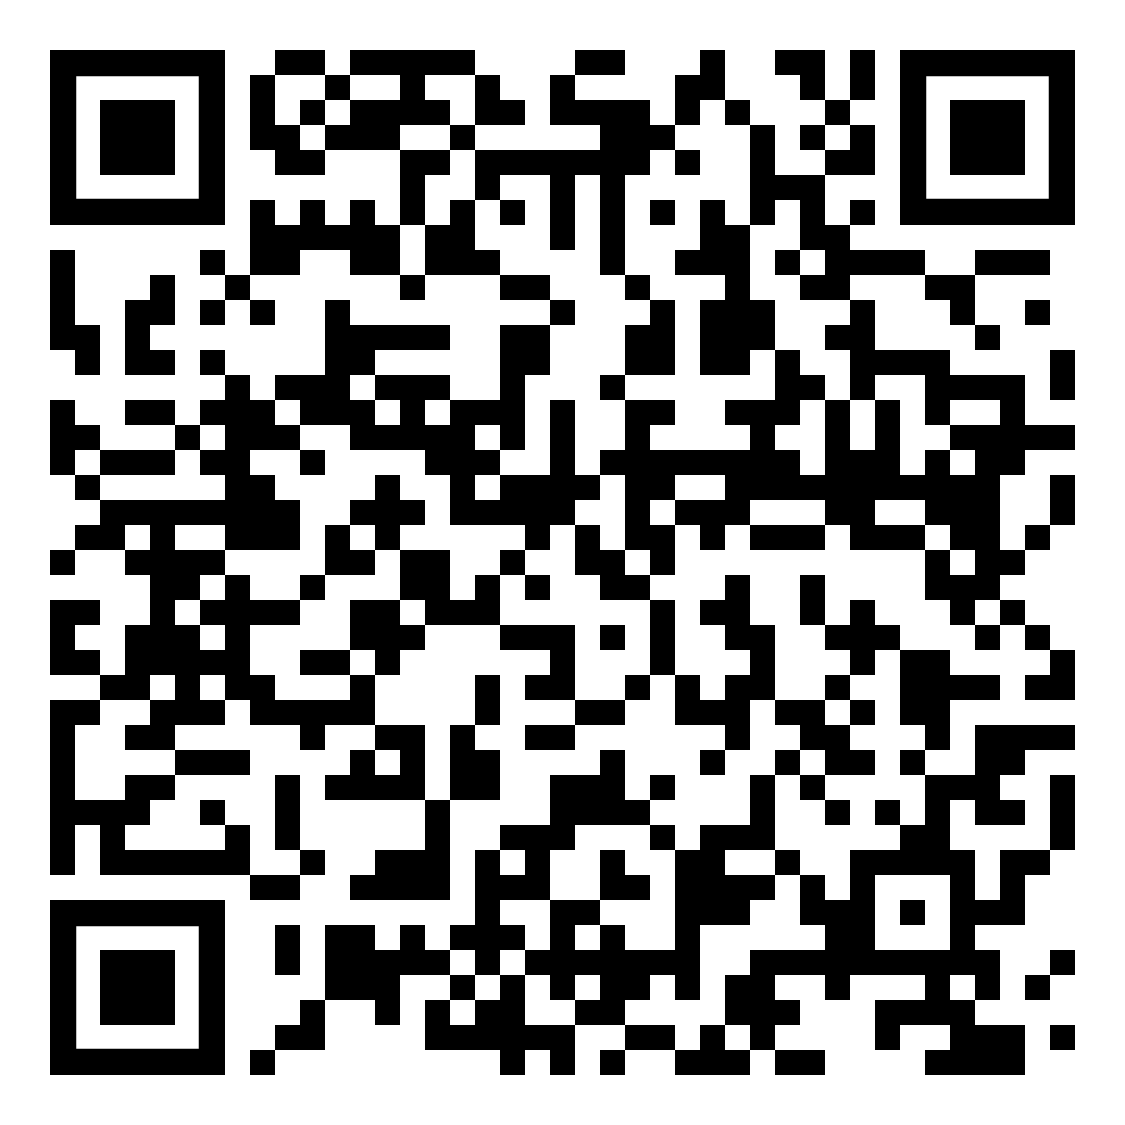
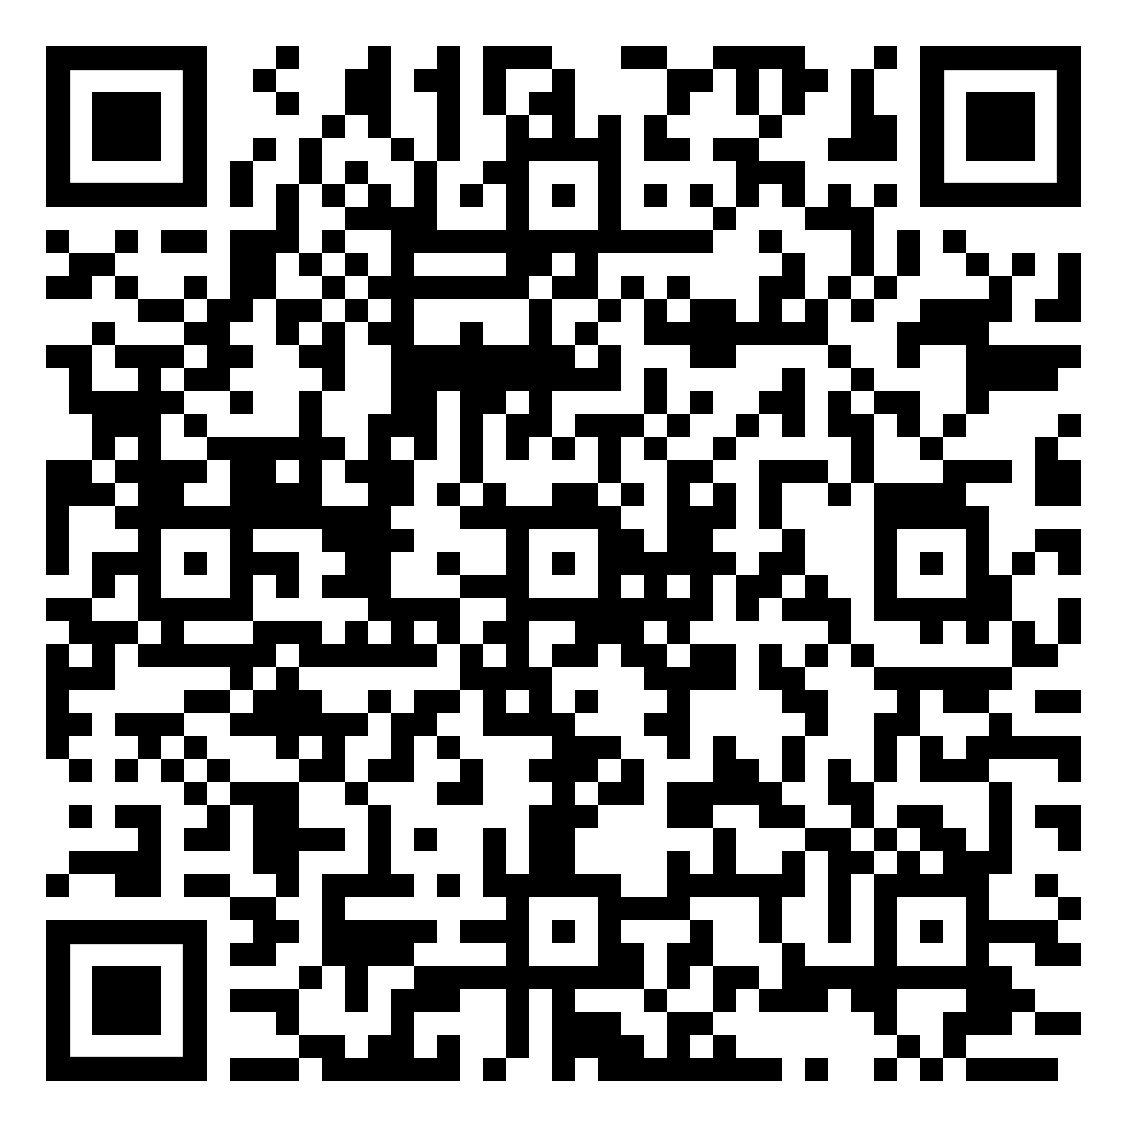
docs: update QR code and subscription URL with custom name

diff --git a/README.md b/README.md
@@ -11,7 +11,7 @@
 
 Готовый файл доступен по ссылке:
 
-**https://raw.githubusercontent.com/JeBance/CheburNet/gh-pages/cheburnet.txt**
+**https://raw.githubusercontent.com/JeBance/CheburNet/gh-pages/cheburnet.txt#CheburNet%20-%20Russian%20VLESS%20list**
 
 ---
 
